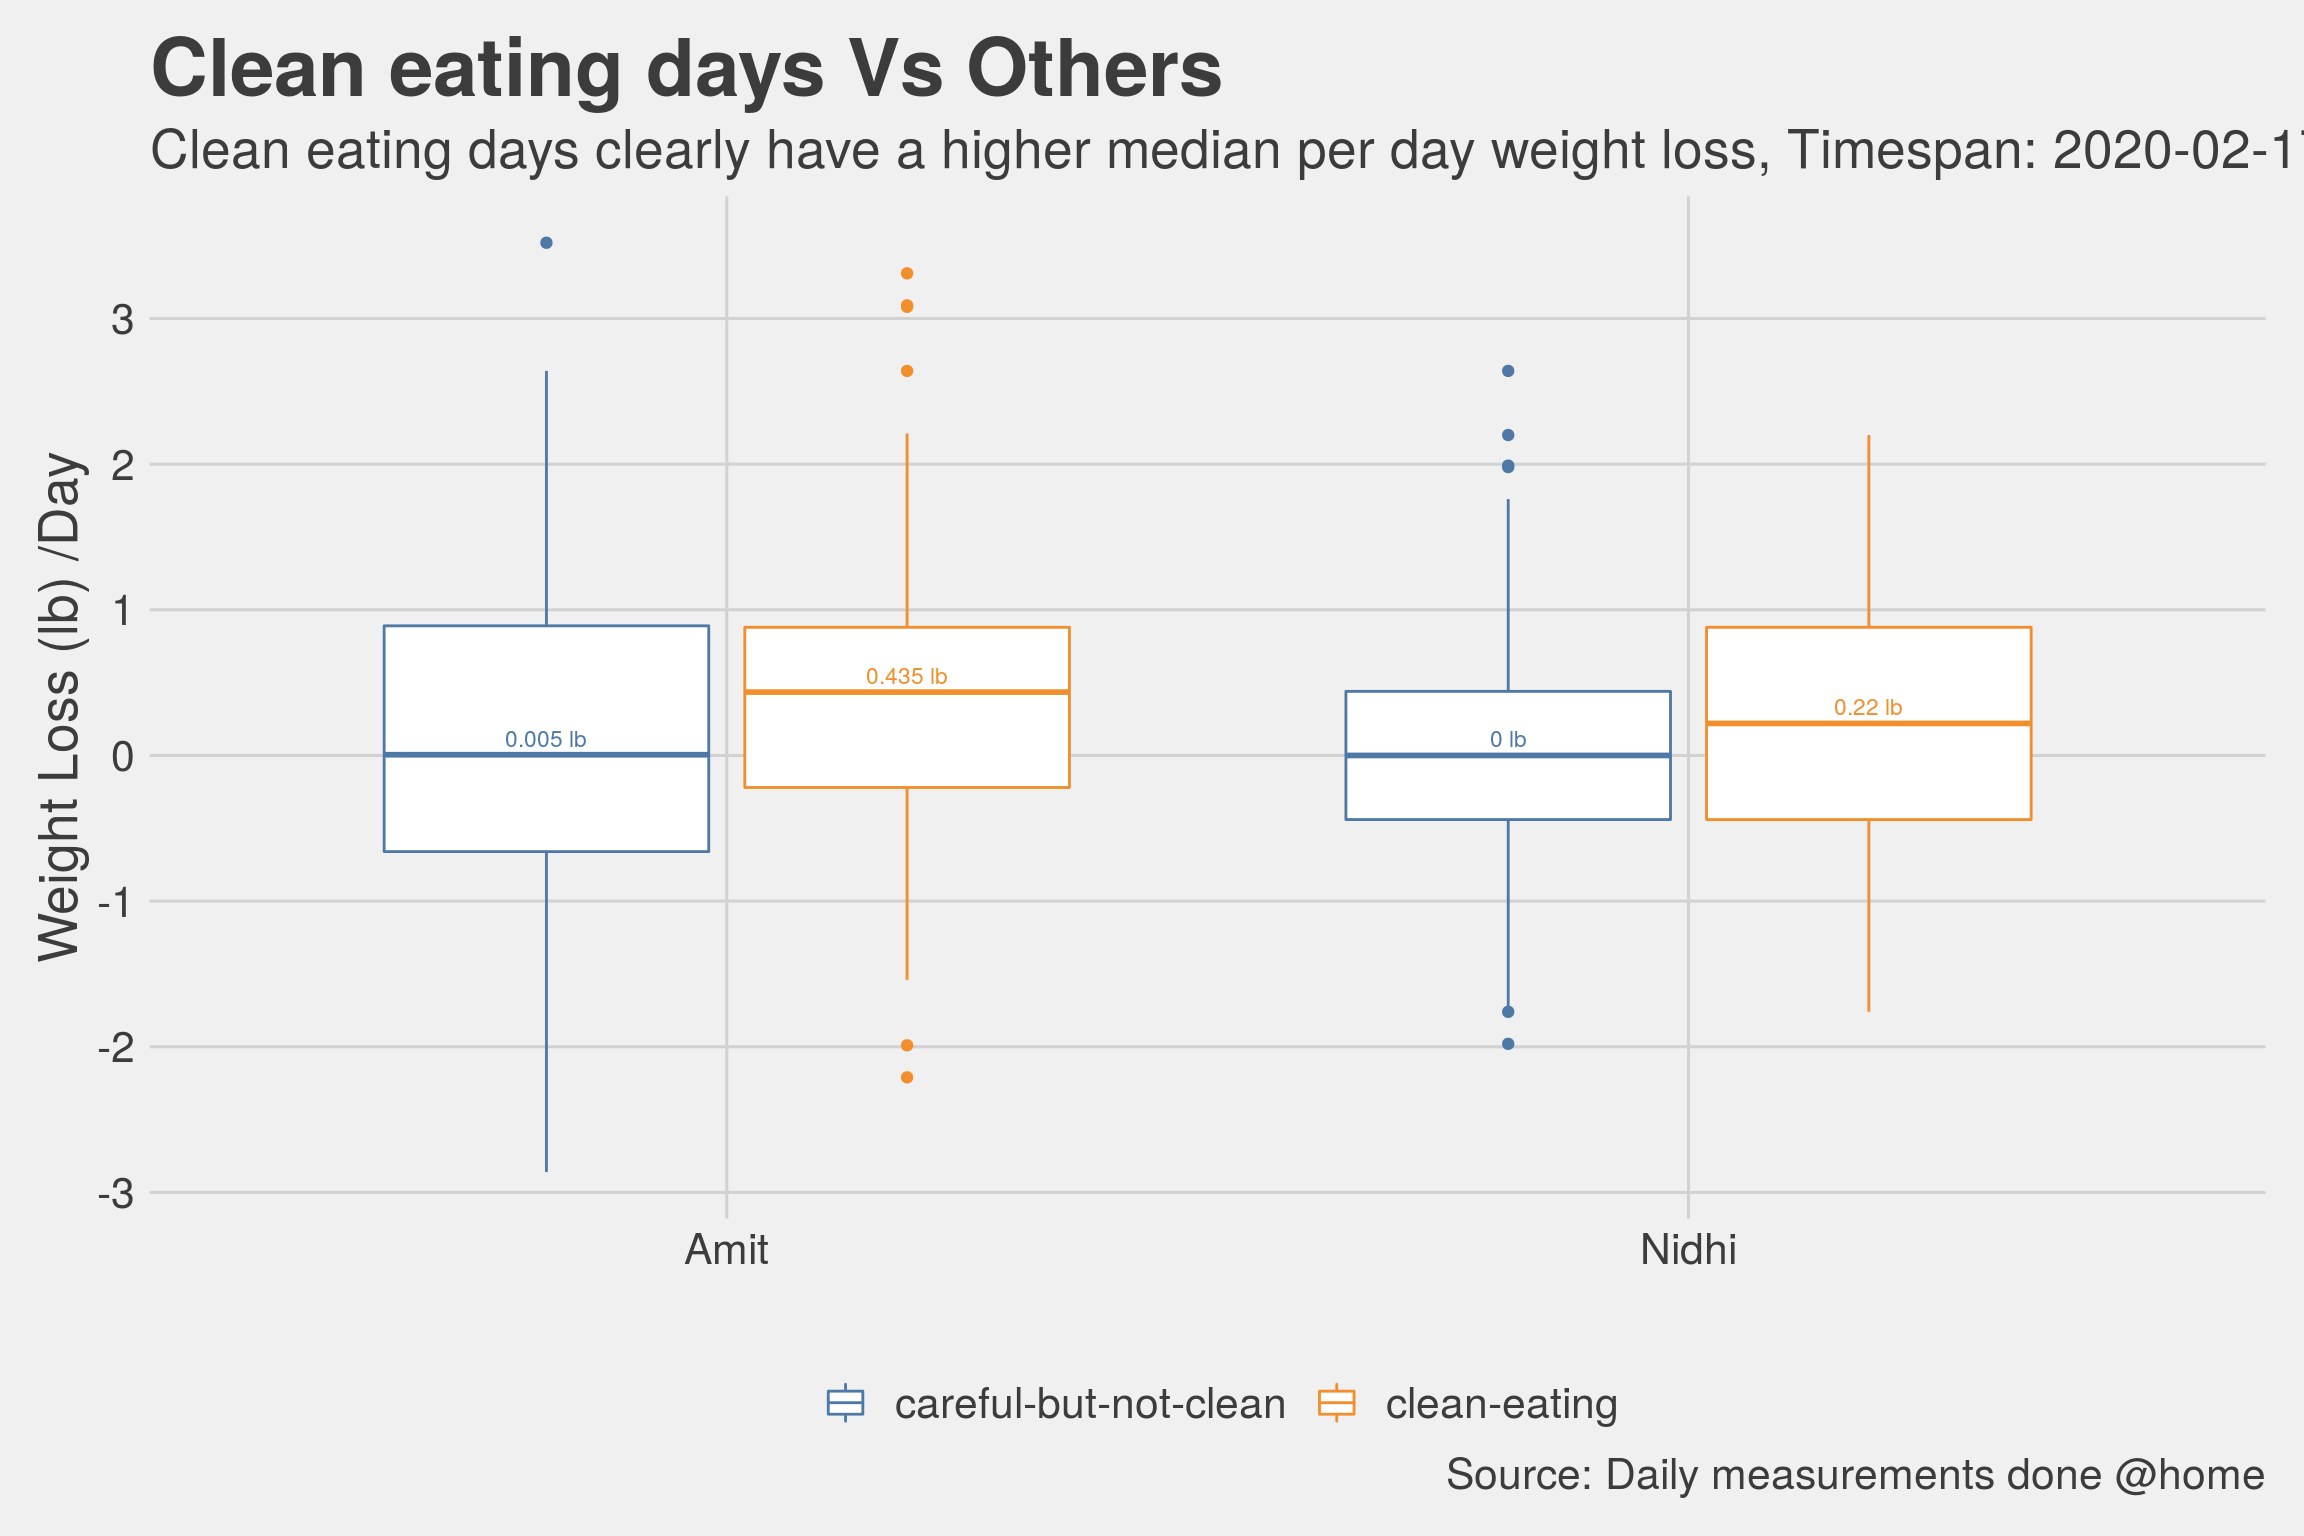
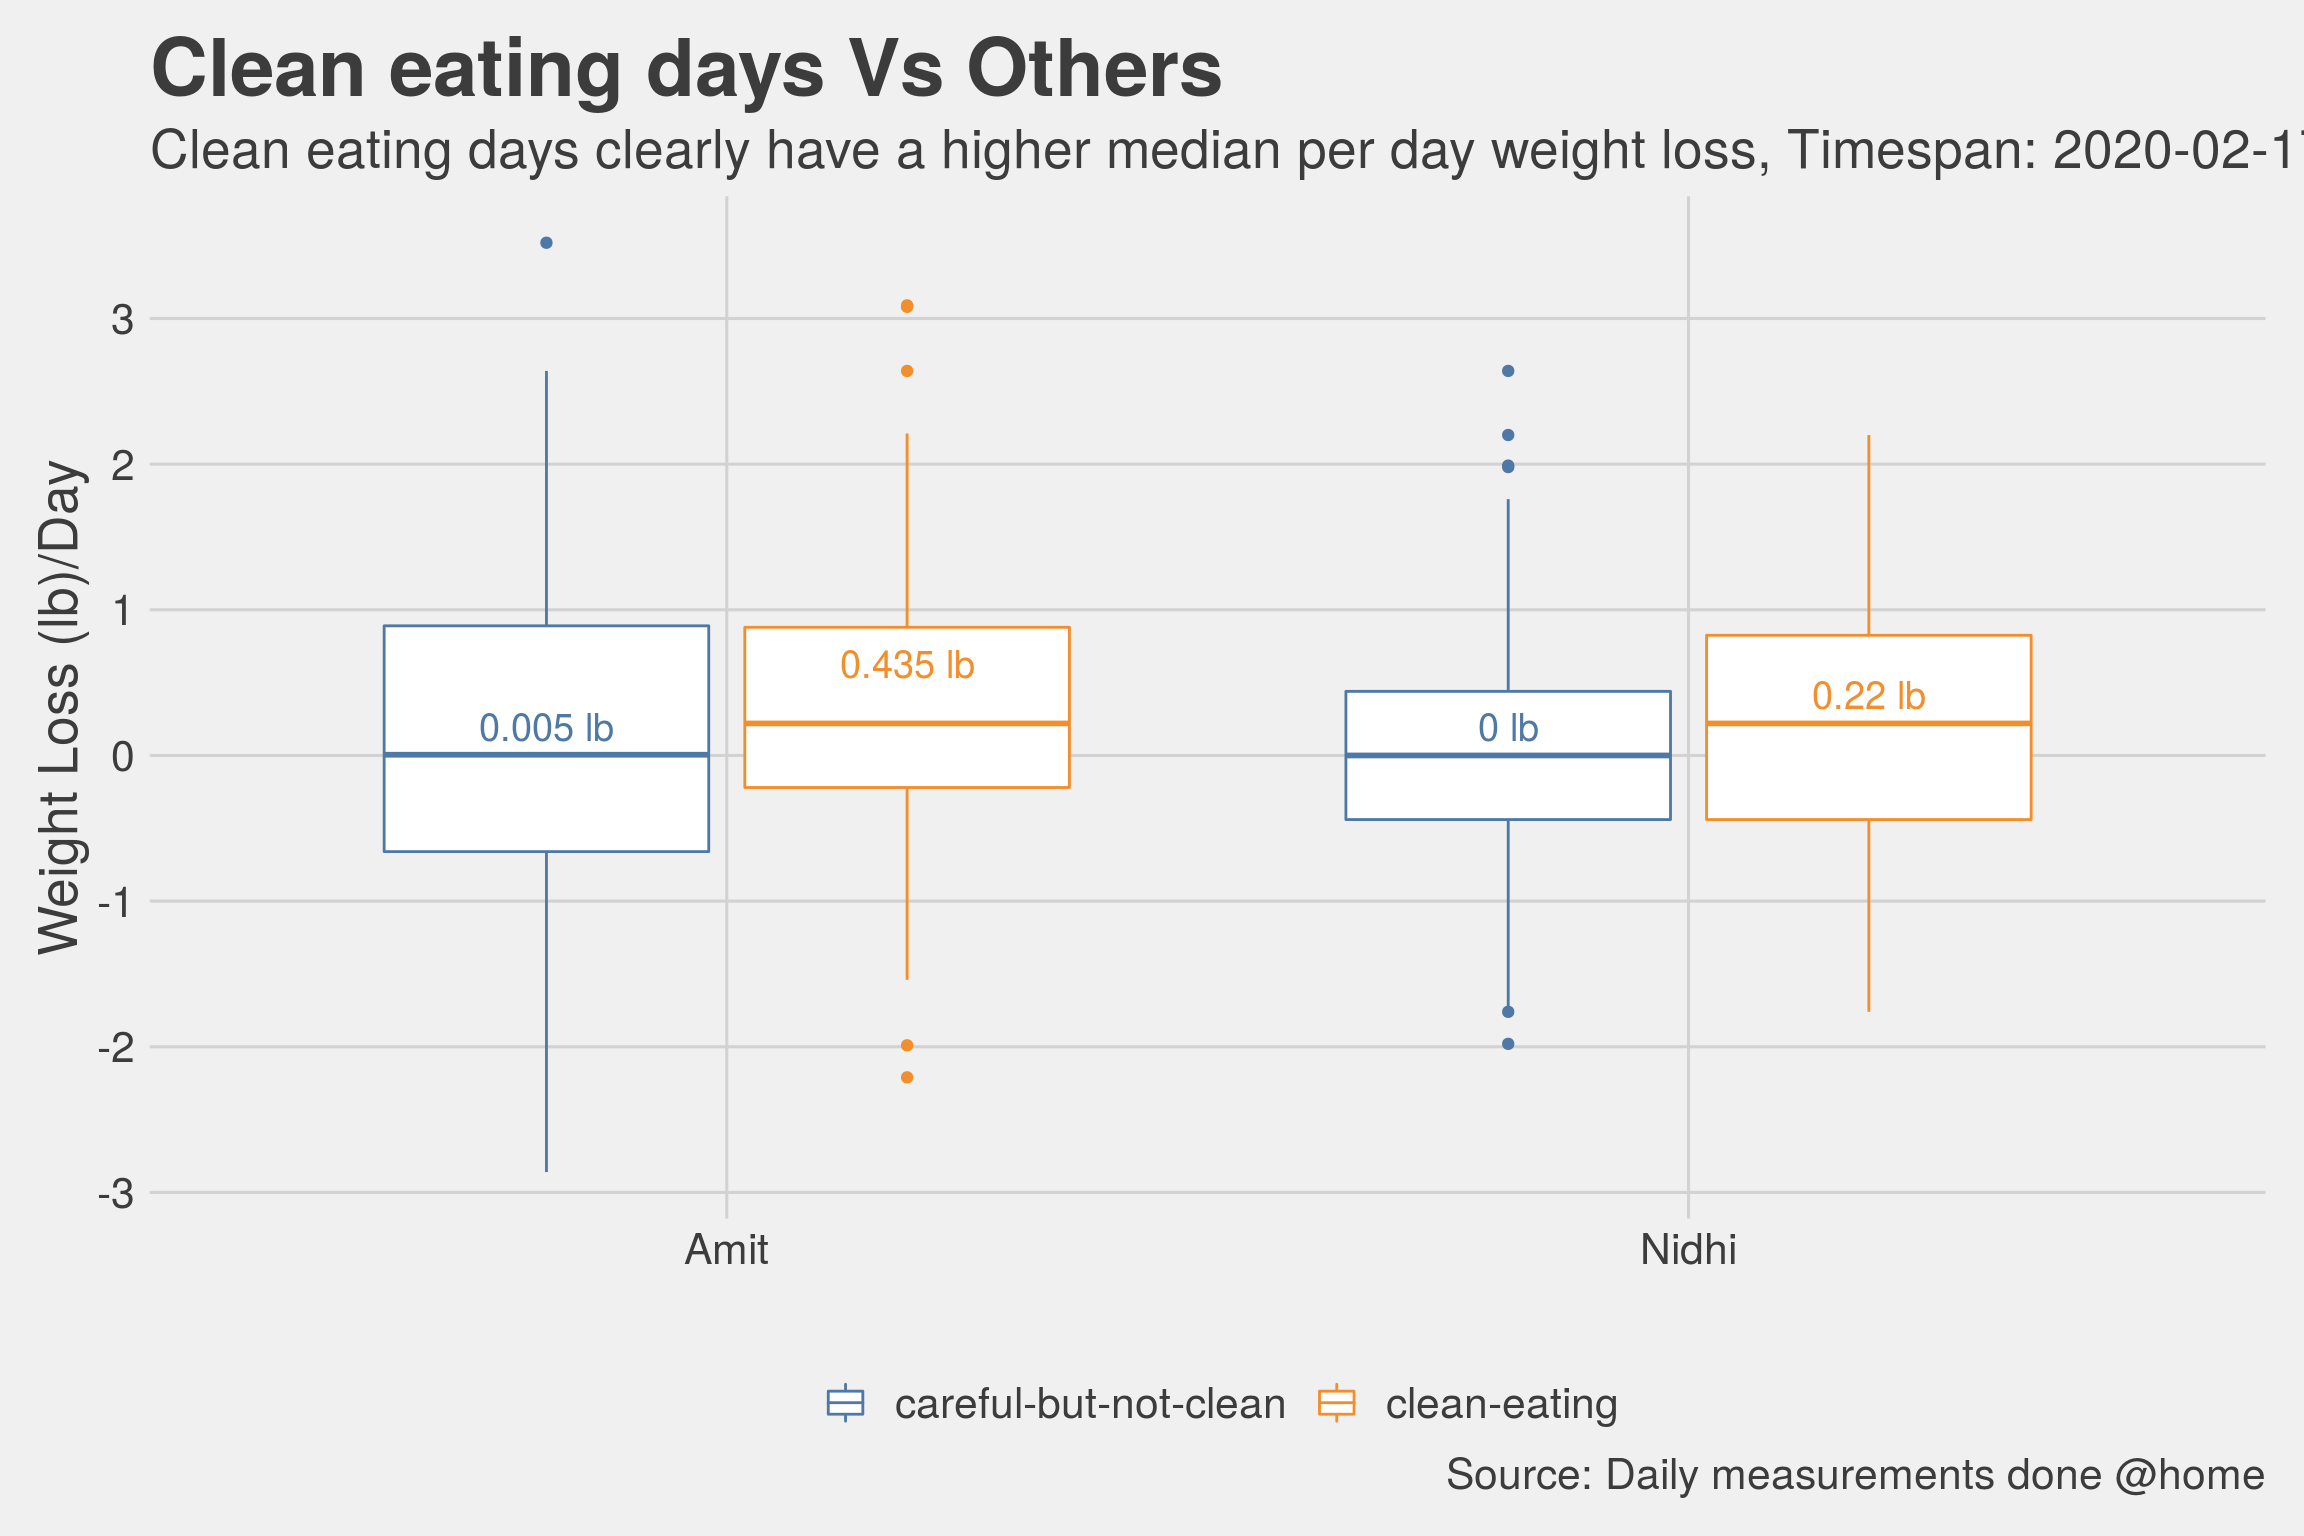
fix warnings

diff --git a/docs/clean-eating.html b/docs/clean-eating.html
@@ -277,8 +277,7 @@ code span.wa { color: #60a0b0; font-weight: bold; font-style: italic; } /* Warni
 <p>We saw very good results in both the iterations. The first iteration produced much better results because obviously there was just too much weight to lose, but surprisingly the second iteration was also very effective. The way we see this now is that if we ever hit a really long plateau in the journey to achieve the desired weight we could just toughen our minds and do this again. It cannot hurt.</p>
 <p><img src="bookdownproj_files/figure-html/unnamed-chunk-5-1.png" width="1152" /></p>
 <p>Here is another chart that compares the weight loss during clean eating and non-clean eating days. Note that even when we were not doing clean eating we were still careful about what we were eating (in other words we were not gorging on Pizzas and butter chicken, soft and hard drinks were still completely off limits).</p>
-<pre><code>## `summarise()` regrouping output by &#39;name&#39; (override with `.groups` argument)</code></pre>
-<pre><code>## Warning: Removed 2 rows containing non-finite values (stat_boxplot).</code></pre>
+<p>The chart shows a boxplot representing the spread of the weight loss per day during clean eating periods and non-clean eating periods. The horizontal line inside the box represents the median value of the distribution. For example, I lost at least 0.435 lb or more per day during clean eating whereas I only lost 0.005 lb or more on non-clean eating period.</p>
 <p><img src="bookdownproj_files/figure-html/unnamed-chunk-6-1.png" width="1152" /></p>
 </div>
 <div id="is-the-30-day-challenge-hard" class="section level2">
